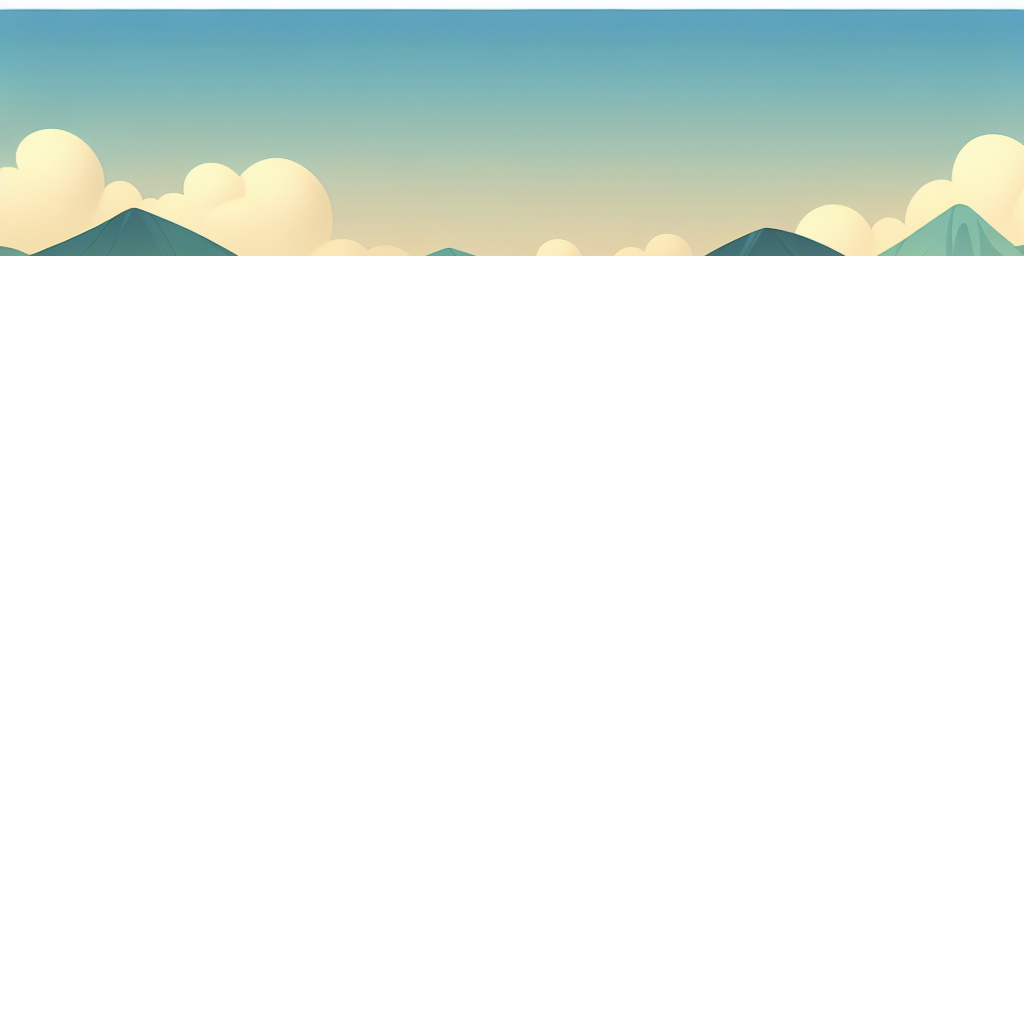
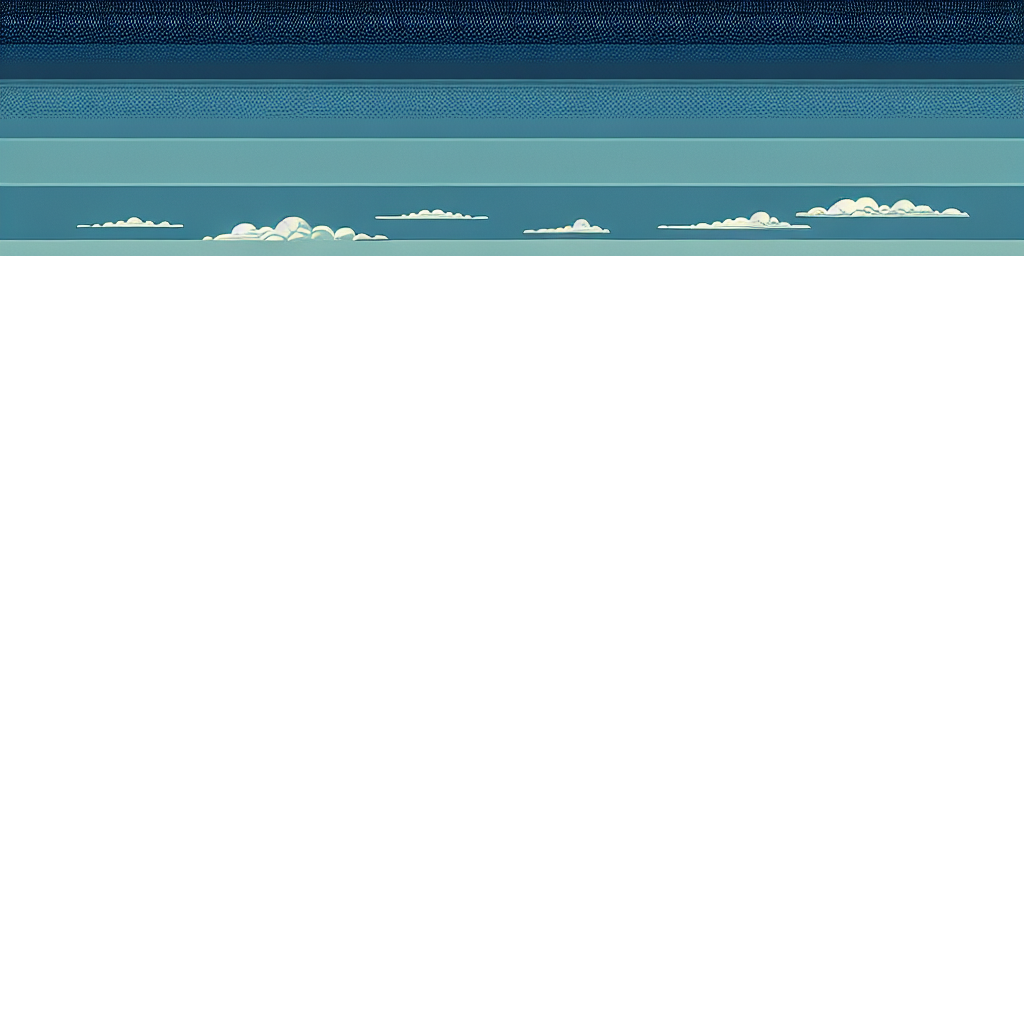
🦀Generated files for 2025-06-17🦀

Changed region(s): [[0.0, 0.0, 1.0, 0.25]]

diff --git a/README.md b/README.md
@@ -19,4 +19,4 @@ Additionally, the GIF generation pipeline may produce totally botched results wh
 
 ![image](images/image_current.png)
 
-**Prompt:** NIX
+**Prompt:** Background for 2d side-scrolling game, which have 4 separate horizontal layers. Layer 1: [Far background elements, distant mountains and sky with subtle gradients, using shades of 0x001f41, 0x82c6d6, and 0x2f5a78 to create depth].
